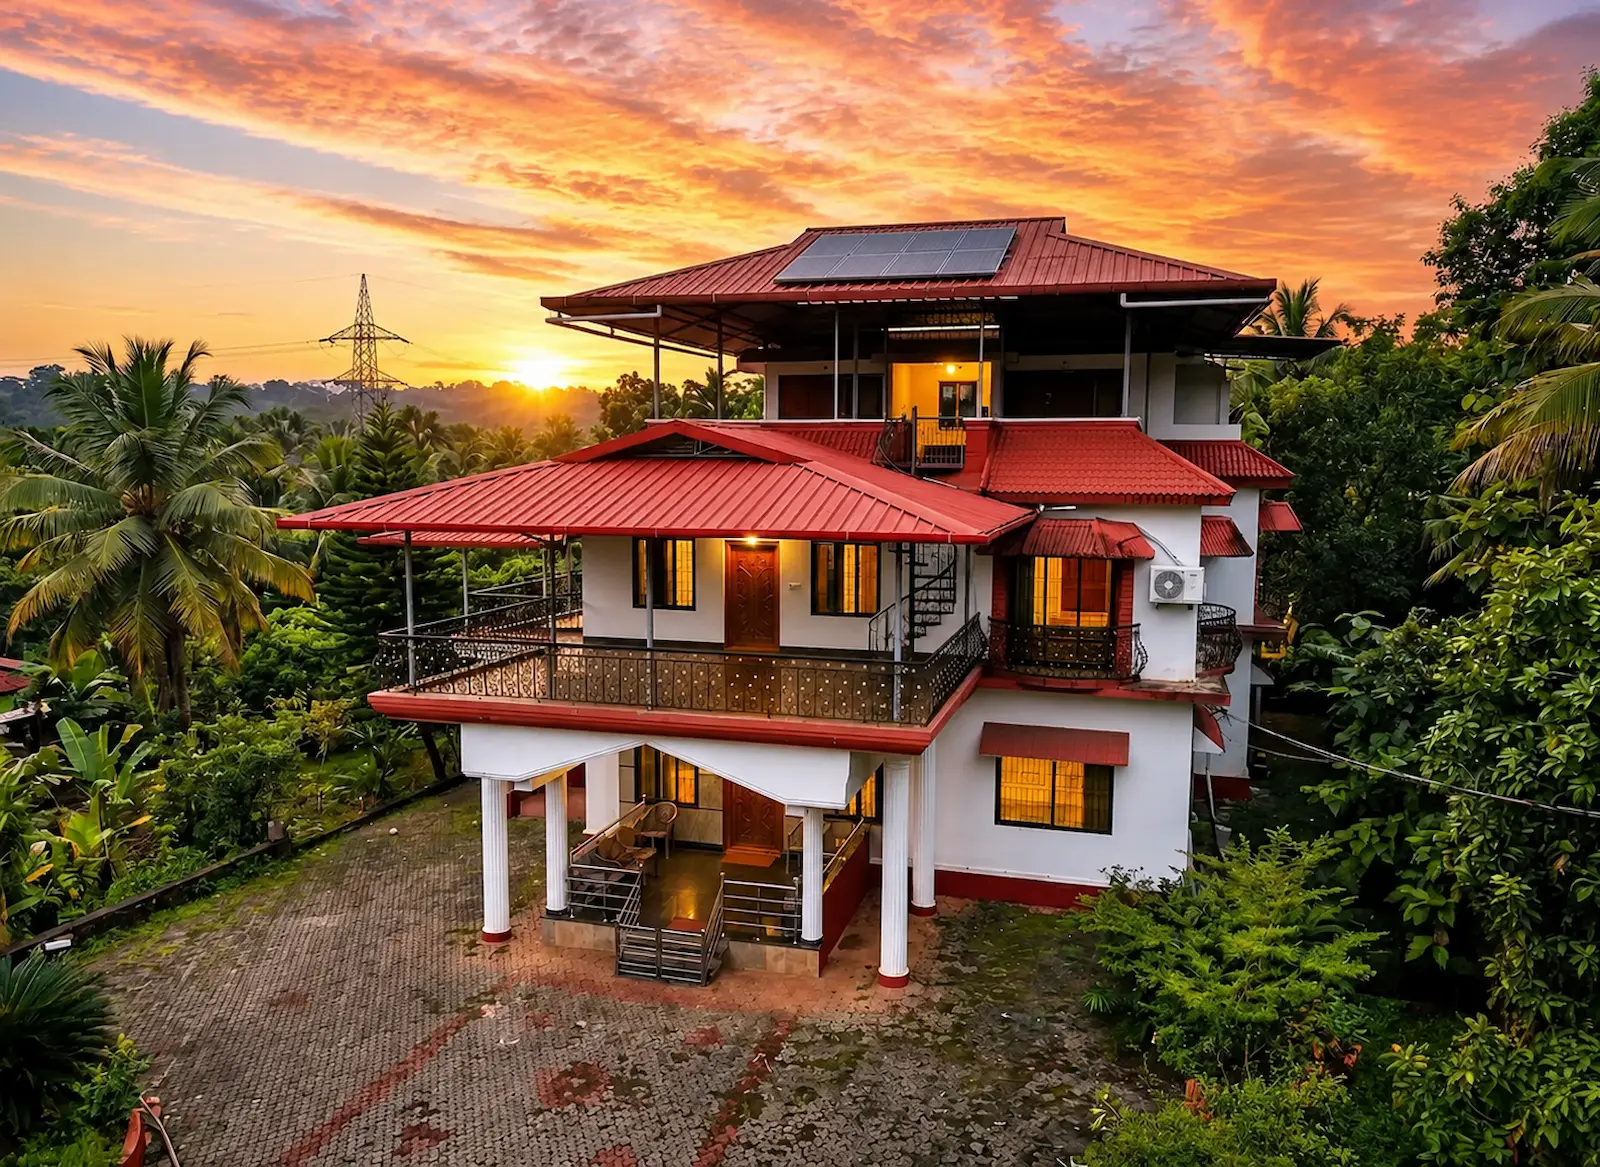
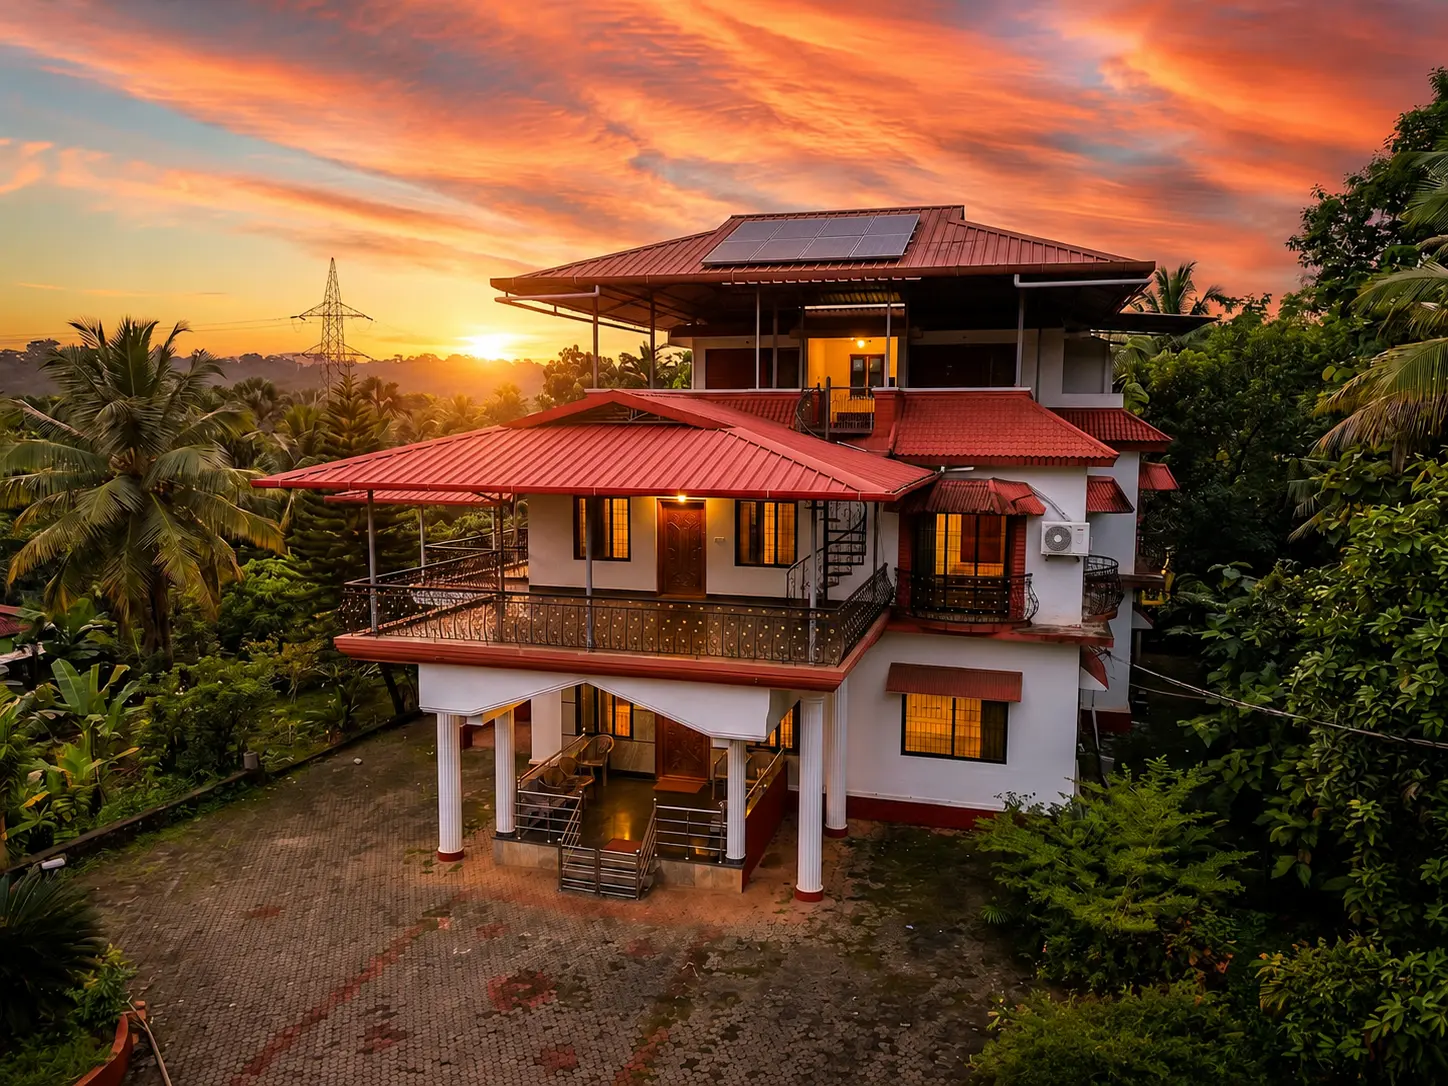
final

diff --git a/src/components/Hero/Hero.module.scss b/src/components/Hero/Hero.module.scss
@@ -27,7 +27,12 @@
   position: absolute;
   inset: 0;
   background:
-    linear-gradient(180deg, rgba(22, 48, 42, 0.55) 0%, rgba(22, 48, 42, 0.35) 40%, rgba(22, 20, 17, 0.75) 100%);
+    linear-gradient(
+      180deg,
+      rgba(22, 48, 42, 0.28) 0%,
+      rgba(22, 48, 42, 0.18) 40%,
+      rgba(22, 20, 17, 0.45) 100%
+    );
 }
 
 .particles {